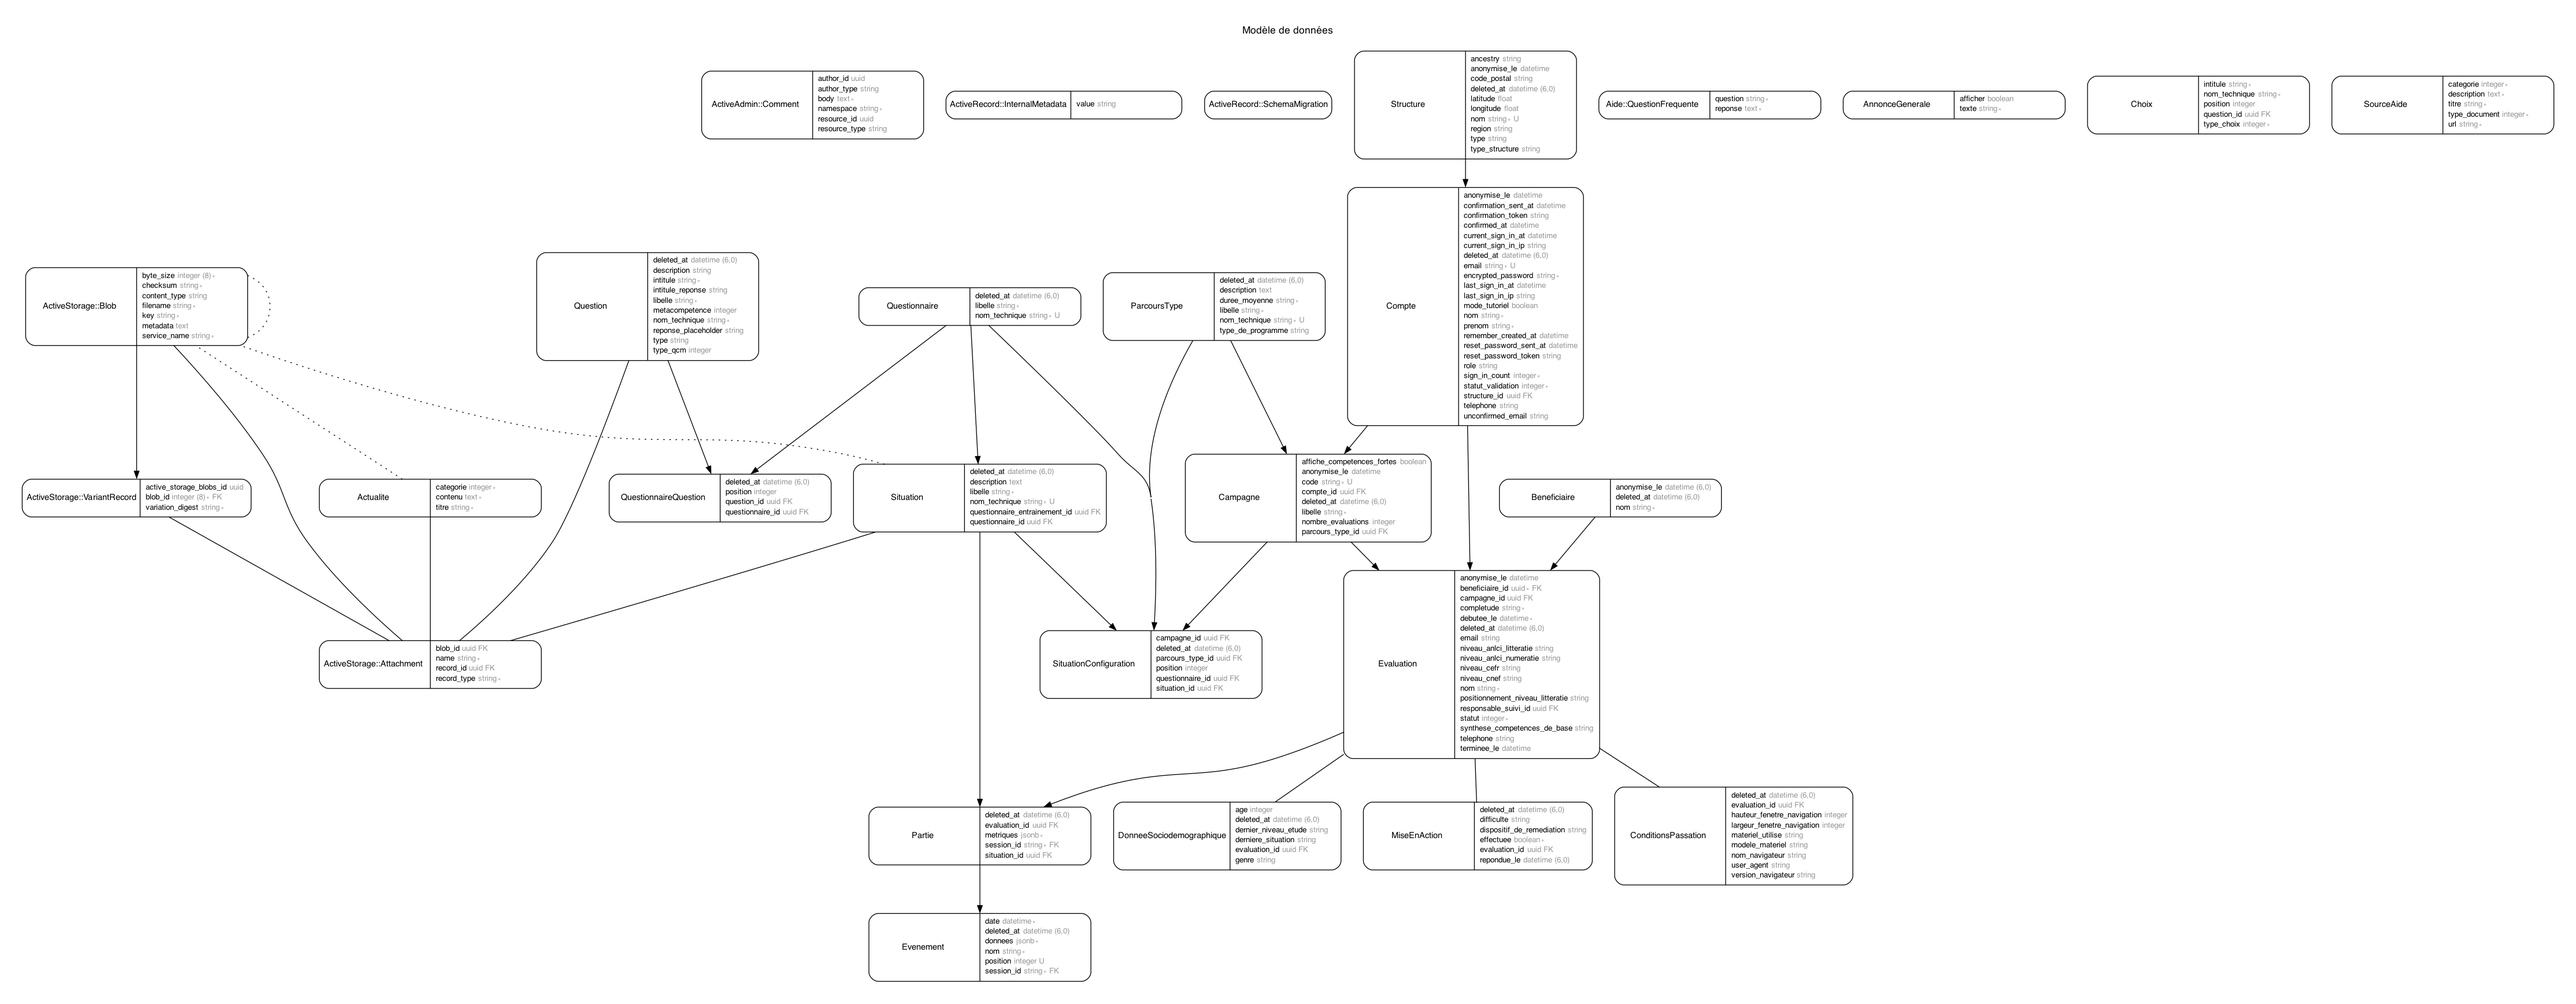
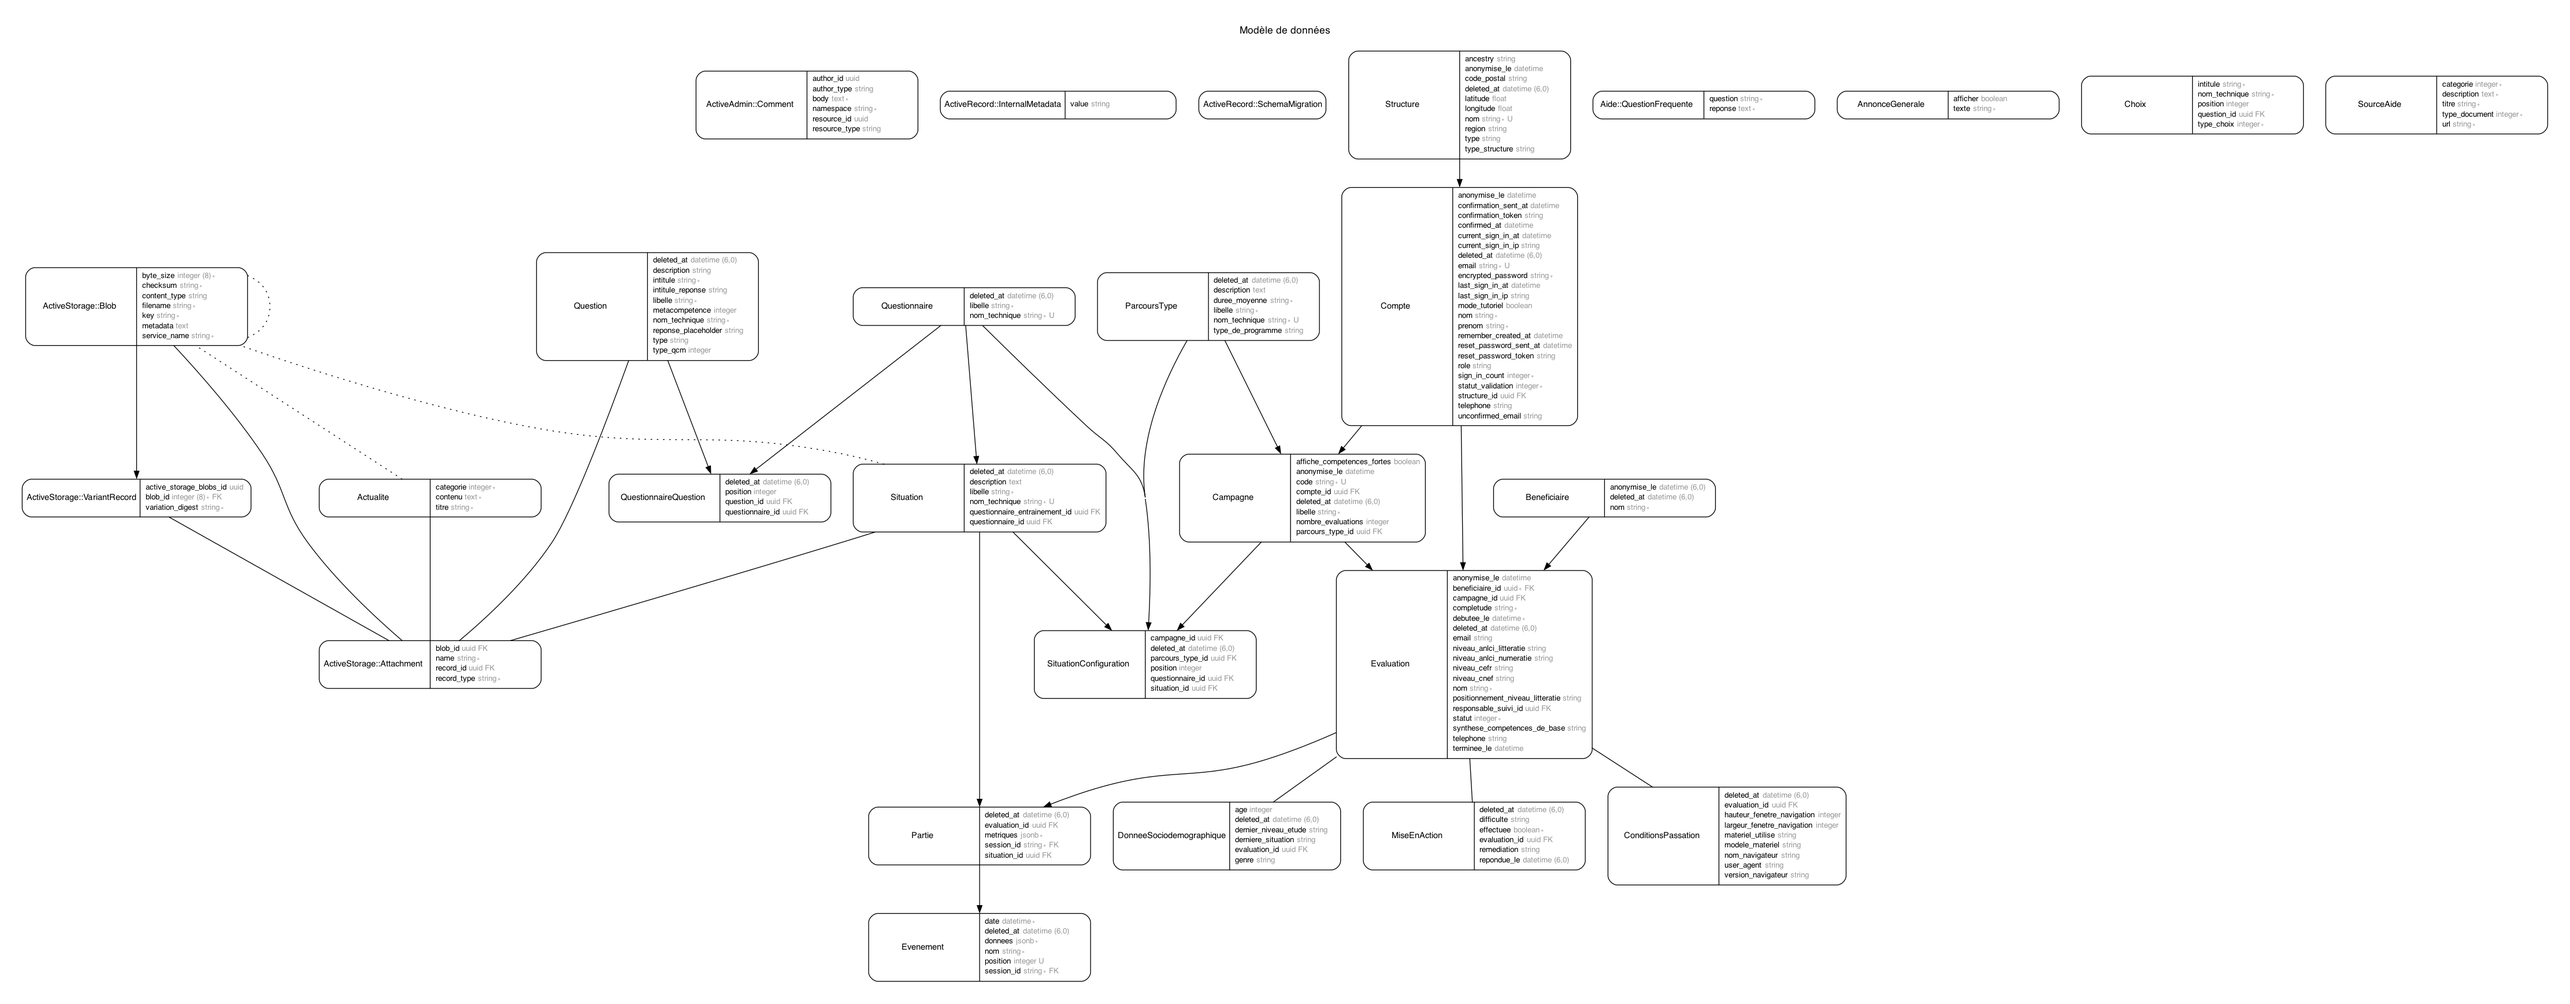
:card_file_box: change nom de la colonne dispositif de remédiation en remediation pour une mise en action

diff --git a/app/models/mise_en_action.rb b/app/models/mise_en_action.rb
@@ -1,9 +1,9 @@
 # frozen_string_literal: true
 
 class MiseEnAction < ApplicationRecord
-  DISPOSITIFS_REMEDIATION = %w[formation_competences_de_base formation_metier
-                               dispositif_remobilisation levee_freins_peripheriques
-                               indetermine].freeze
+  REMEDIATIONS = %w[formation_competences_de_base formation_metier
+                    dispositif_remobilisation levee_freins_peripheriques
+                    indetermine].freeze
   DIFFICULTES = %w[aucune_offre_formation offre_formation_inaccessible
                    freins_peripheriques accompagnement_necessaire
                    indetermine].freeze
@@ -15,8 +15,7 @@ class MiseEnAction < ApplicationRecord
 
   before_save :enregistre_date
 
-  enum dispositif_de_remediation: DISPOSITIFS_REMEDIATION.zip(DISPOSITIFS_REMEDIATION).to_h,
-       _suffix: true
+  enum remediation: REMEDIATIONS.zip(REMEDIATIONS).to_h, _suffix: true
   enum difficulte: DIFFICULTES.zip(DIFFICULTES).to_h, _suffix: true
 
   acts_as_paranoid
@@ -27,8 +26,8 @@ class MiseEnAction < ApplicationRecord
     self.repondue_le = Time.zone.now
   end
 
-  def effectuee_avec_dispositif_remediation?
-    effectuee && dispositif_de_remediation.present?
+  def effectuee_avec_remediation?
+    effectuee && remediation.present?
   end
 
   def non_effectuee_avec_difficulte?
@@ -44,7 +43,7 @@ class MiseEnAction < ApplicationRecord
   end
 
   def qualification
-    return dispositif_de_remediation if effectuee
+    return remediation if effectuee
     return difficulte unless effectuee
   end
 end

diff --git a/spec/models/mise_en_action_spec.rb b/spec/models/mise_en_action_spec.rb
@@ -15,20 +15,20 @@ describe MiseEnAction, type: :model do
     should allow_value(false).for(:effectuee)
   end
 
-  describe '#effectuee_avec_dispositif_remediation?' do
+  describe '#effectuee_avec_remediation?' do
     let!(:mise_en_action) { create :mise_en_action, effectuee: true }
 
     context 'quand la mise en action est effectée et a un dispositif de remédiation' do
-      before { mise_en_action.update dispositif_de_remediation: 'formation_metier' }
+      before { mise_en_action.update remediation: 'formation_metier' }
 
       it 'renvoie true' do
-        expect(mise_en_action.effectuee_avec_dispositif_remediation?).to be true
+        expect(mise_en_action.effectuee_avec_remediation?).to be true
       end
     end
 
     context "quand la mise en action est effectée et n'a pas de dispositif de remédiation" do
       it 'renvoie false' do
-        expect(mise_en_action.effectuee_avec_dispositif_remediation?).to be false
+        expect(mise_en_action.effectuee_avec_remediation?).to be false
       end
     end
   end
@@ -54,7 +54,7 @@ describe MiseEnAction, type: :model do
   describe '#qualification' do
     context 'quand la mise en action est effectuee' do
       let!(:mise_en_action) do
-        create :mise_en_action, effectuee: true, dispositif_de_remediation: 'formation_metier'
+        create :mise_en_action, effectuee: true, remediation: 'formation_metier'
       end
 
       it 'renvoie le dispositif de remédiation' do

diff --git a/app/helpers/evaluation_helper.rb b/app/helpers/evaluation_helper.rb
@@ -10,13 +10,13 @@ module EvaluationHelper
     liste_filtree_illettrisme_potentiel ? false : true
   end
 
-  def effectuee_avec_dispositif_remediation?(ressource)
-    ressource&.mise_en_action&.effectuee_avec_dispositif_remediation?
+  def effectuee_avec_remediation?(ressource)
+    ressource&.mise_en_action&.effectuee_avec_remediation?
   end
 
-  def effectuee_sans_dispositif_remediation?(ressource)
+  def effectuee_sans_remediation?(ressource)
     ressource&.mise_en_action&.effectuee &&
-      ressource&.mise_en_action&.dispositif_de_remediation.blank?
+      ressource&.mise_en_action&.remediation.blank?
   end
 
   def non_effectuee_sans_difficulte?(ressource)
@@ -29,6 +29,6 @@ module EvaluationHelper
   end
 
   def mise_en_action_avec_qualification?(ressource)
-    effectuee_avec_dispositif_remediation?(ressource) || non_effectuee_avec_difficulte?(ressource)
+    effectuee_avec_remediation?(ressource) || non_effectuee_avec_difficulte?(ressource)
   end
 end

diff --git a/spec/models/evaluation_spec.rb b/spec/models/evaluation_spec.rb
@@ -61,7 +61,7 @@ describe Evaluation do
     describe '.sans_qualification' do
       let!(:evaluation_sans_dispositif) { create :evaluation, :avec_mise_en_action }
       let!(:evaluation_avec_dispositif) do
-        create :evaluation, :avec_mise_en_action, dispositif_de_remediation: 'formation_metier'
+        create :evaluation, :avec_mise_en_action, remediation: 'formation_metier'
       end
       let!(:evaluation_sans_difficulte) do
         create :evaluation, :avec_mise_en_action, effectuee: false
@@ -73,7 +73,7 @@ describe Evaluation do
 
       context 'pour la qualification dispositif de remédiation' do
         it 'retourne les évaluations effectuees sans dispositifs de remédiation' do
-          expect(described_class.sans_qualification(:dispositif_de_remediation))
+          expect(described_class.sans_qualification(:remediation))
             .to eq [evaluation_sans_dispositif]
         end
       end

diff --git a/app/models/evaluation.rb b/app/models/evaluation.rb
@@ -55,7 +55,7 @@ class Evaluation < ApplicationRecord
   }
   scope :non_anonymes, -> { where(anonymise_le: nil) }
   scope :sans_qualification, lambda { |qualification|
-    effectuee = qualification == :dispositif_de_remediation
+    effectuee = qualification == :remediation
     left_outer_joins(:mise_en_action)
       .where(mises_en_action: { effectuee: effectuee })
       .where(mises_en_action: { qualification => nil })
@@ -88,7 +88,7 @@ class Evaluation < ApplicationRecord
 
   def self.tableau_de_bord_mises_en_action(ability)
     query = accessible_by(ability).illettrisme_potentiel
-    query.sans_qualification(:dispositif_de_remediation)
+    query.sans_qualification(:remediation)
          .or(query.sans_qualification(:difficulte))
          .or(query.sans_mise_en_action)
          .non_anonymes.order(created_at: :desc)

diff --git a/db/schema.rb b/db/schema.rb
@@ -10,7 +10,7 @@
 #
 # It's strongly recommended that you check this file into your version control system.
 
-ActiveRecord::Schema[7.0].define(version: 2023_02_28_152323) do
+ActiveRecord::Schema[7.0].define(version: 2023_03_10_103228) do
   # These are extensions that must be enabled in order to support this database
   enable_extension "pgcrypto"
   enable_extension "plpgsql"
@@ -221,7 +221,7 @@ ActiveRecord::Schema[7.0].define(version: 2023_02_28_152323) do
   create_table "mises_en_action", id: :uuid, default: -> { "gen_random_uuid()" }, force: :cascade do |t|
     t.boolean "effectuee", null: false
     t.datetime "repondue_le"
-    t.string "dispositif_de_remediation"
+    t.string "remediation"
     t.datetime "deleted_at"
     t.uuid "evaluation_id"
     t.datetime "created_at", null: false

diff --git a/spec/factories/evaluation.rb b/spec/factories/evaluation.rb
@@ -15,7 +15,7 @@ FactoryBot.define do
       transient do
         effectuee { true }
         repondue_le { Time.zone.local(2023, 1, 1, 12, 0, 0) }
-        dispositif_de_remediation { nil }
+        remediation { nil }
         difficulte { nil }
       end
 
@@ -24,7 +24,7 @@ FactoryBot.define do
         evaluation.mise_en_action.update(
           effectuee: evaluator.effectuee,
           repondue_le: evaluator.repondue_le,
-          dispositif_de_remediation: evaluator.dispositif_de_remediation,
+          remediation: evaluator.remediation,
           difficulte: evaluator.difficulte
         )
       end

diff --git a/spec/requests/evaluations_spec.rb b/spec/requests/evaluations_spec.rb
@@ -241,7 +241,7 @@ describe 'Evaluation', type: :request do
         expect do
           patch renseigner_remediation_admin_evaluation_path(evaluation),
                 params: { reponse: dipositif_remediation }
-        end.to change { evaluation.reload.mise_en_action.dispositif_de_remediation }
+        end.to change { evaluation.reload.mise_en_action.remediation }
            .from(nil)
           .to(dipositif_remediation)
       end

diff --git a/app/models/mise_en_action/questionnaire.rb b/app/models/mise_en_action/questionnaire.rb
@@ -13,7 +13,7 @@ class MiseEnAction
       case @nom
       when :remediation
         @question = I18n.t('question.remediation')
-        @reponses = MiseEnAction.dispositifs_de_remediation.excluding('indetermine')
+        @reponses = MiseEnAction.remediations.excluding('indetermine')
       when :difficulte
         @question = I18n.t('question.difficulte')
         @reponses = MiseEnAction.difficultes.excluding('indetermine')

diff --git a/config/initializers/inflections.rb b/config/initializers/inflections.rb
@@ -25,7 +25,6 @@ ActiveSupport::Inflector.inflections do |inflect|
   inflect.irregular 'donnee_sociodemographique', 'donnees_sociodemographiques'
   inflect.irregular 'type_de_programme', 'types_de_programme'
   inflect.irregular 'mise_en_action', 'mises_en_action'
-  inflect.irregular 'dispositif_de_remediation', 'dispositifs_de_remediation'
 end
 
 # These inflection rules are supported but not enabled by default:

diff --git a/app/admin/evaluation.rb b/app/admin/evaluation.rb
@@ -126,7 +126,7 @@ ActiveAdmin.register Evaluation do
   end
 
   member_action :renseigner_remediation, method: :patch do
-    resource.mise_en_action.update(dispositif_de_remediation: params[:reponse])
+    resource.mise_en_action.update(remediation: params[:reponse])
   end
 
   member_action :renseigner_difficulte, method: :patch do

diff --git a/db/migrate/20230310103228_renomme_dispositif_de_remediation_en_remediation_pour_mises_en_action.rb b/db/migrate/20230310103228_renomme_dispositif_de_remediation_en_remediation_pour_mises_en_action.rb
@@ -1,0 +1,5 @@
+class RenommeDispositifDeRemediationEnRemediationPourMisesEnAction < ActiveRecord::Migration[7.0]
+  def change
+    rename_column :mises_en_action, :dispositif_de_remediation, :remediation
+  end
+end
